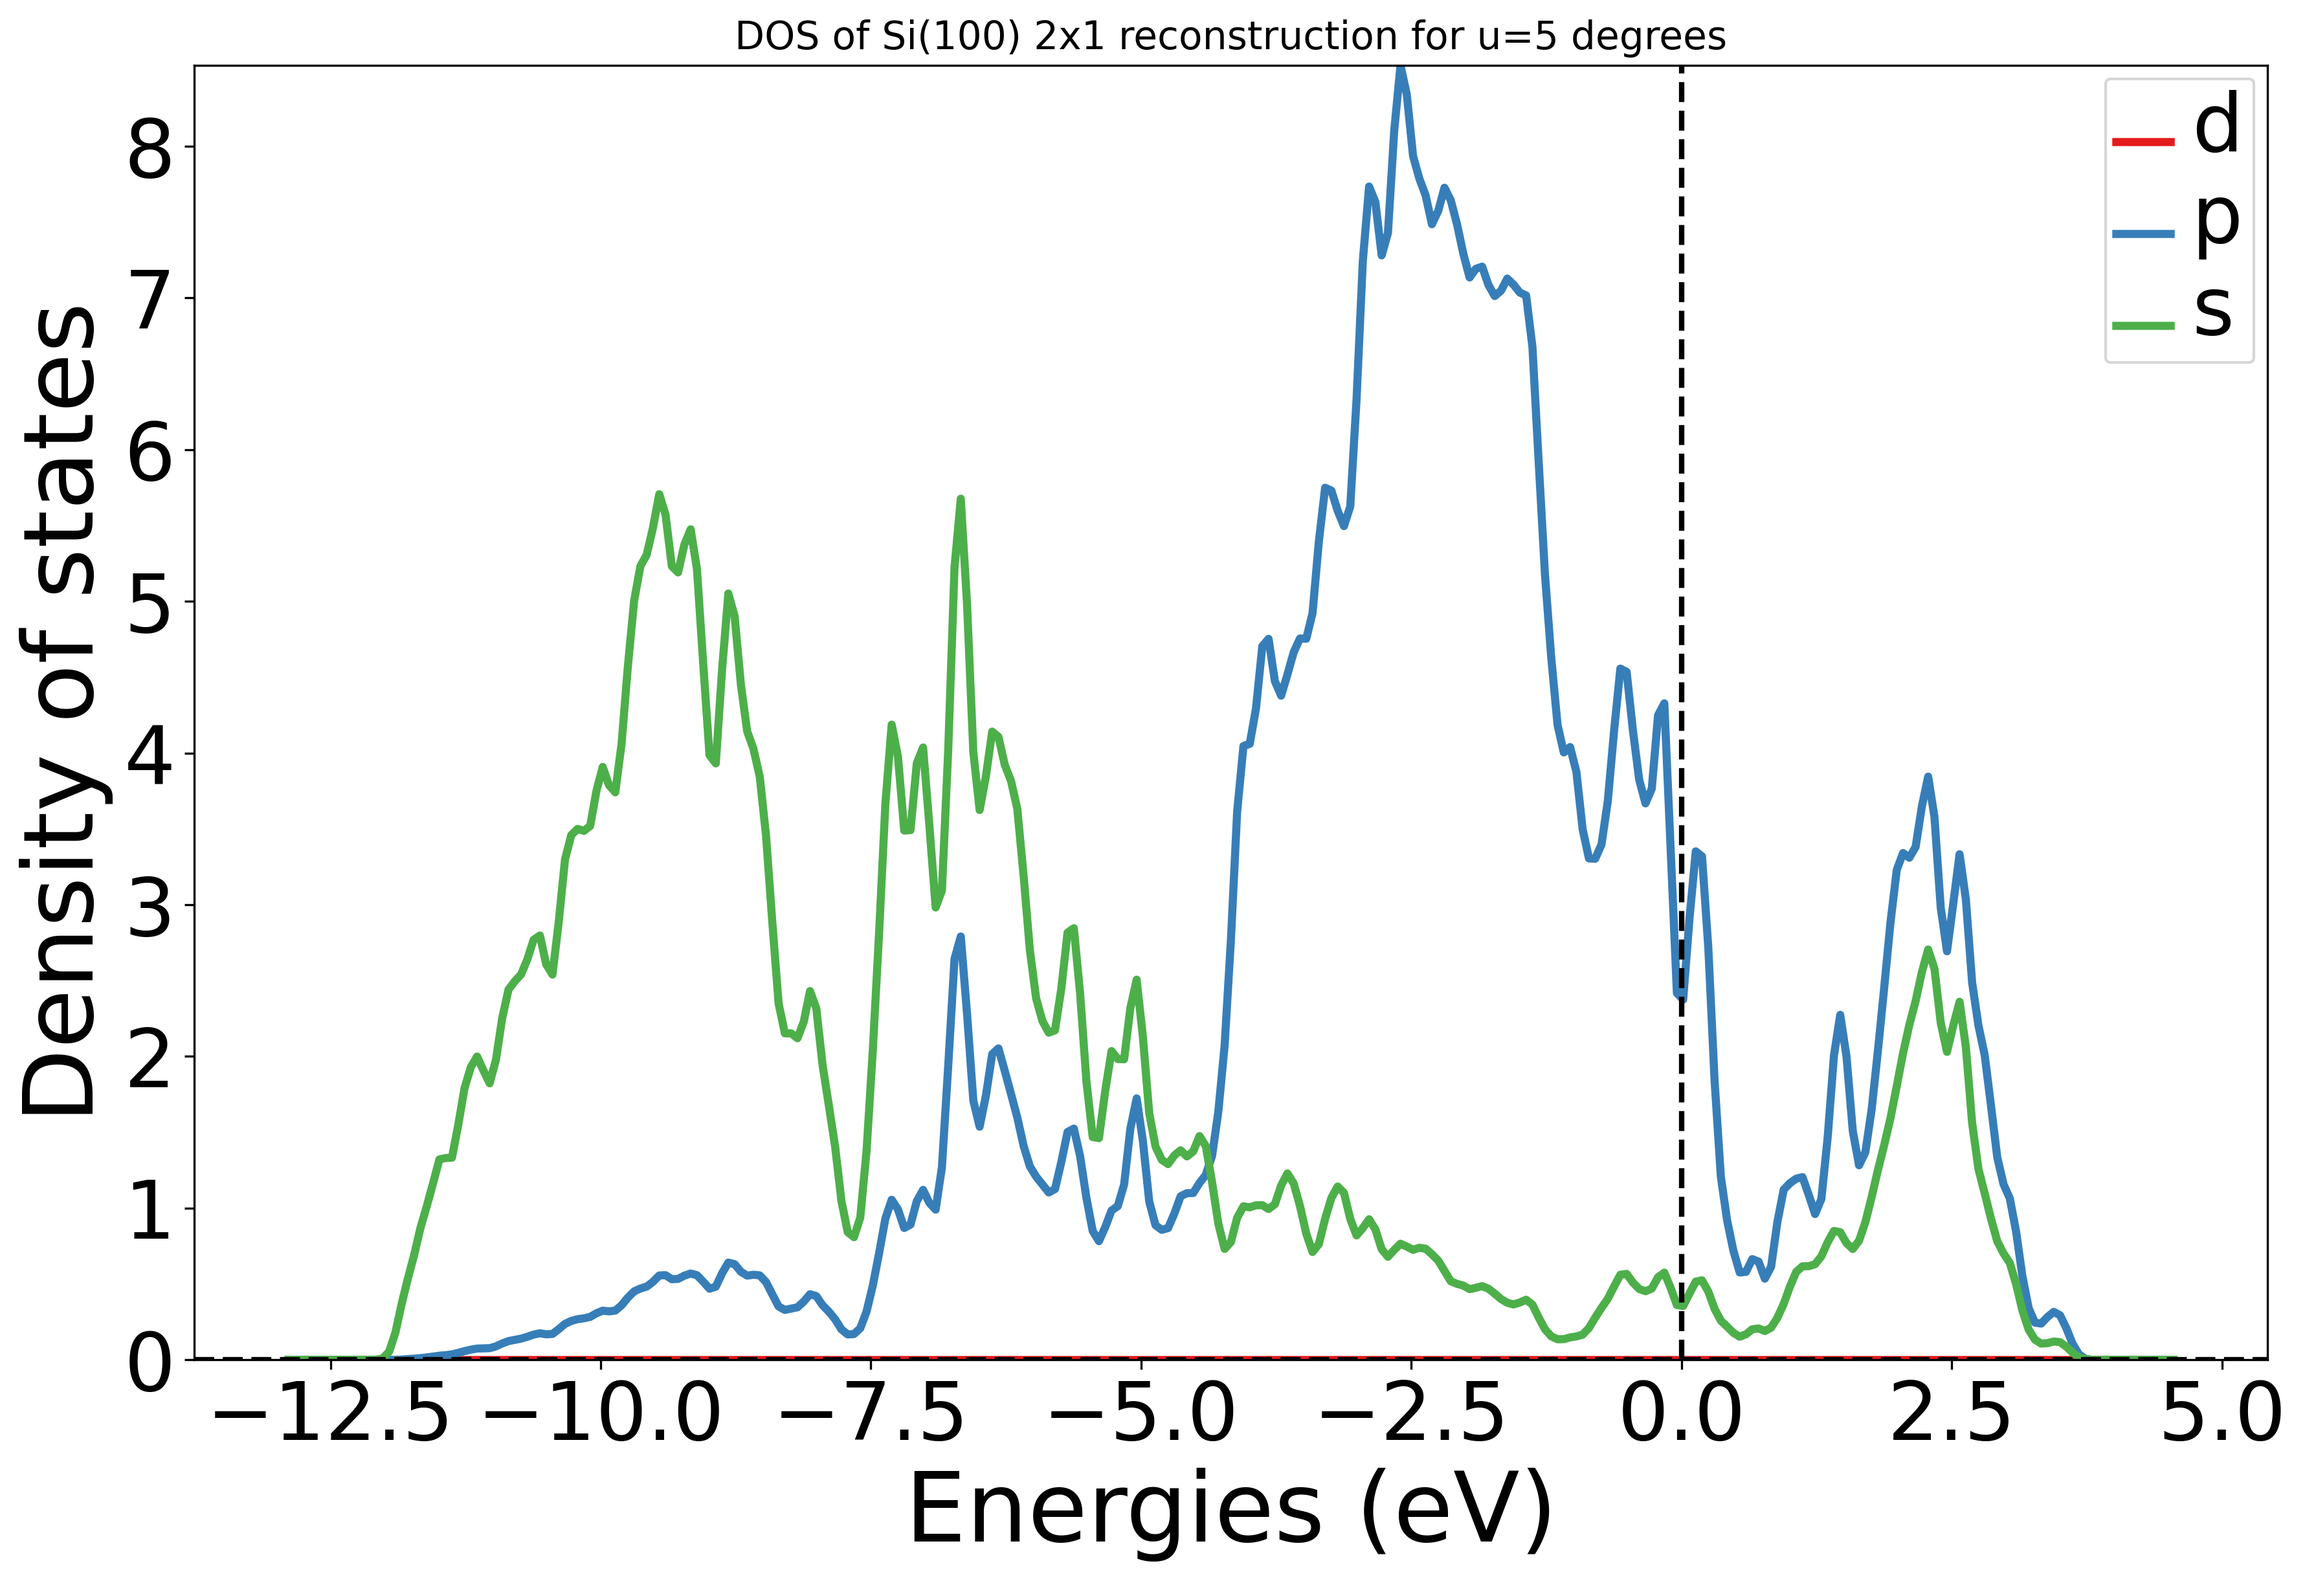
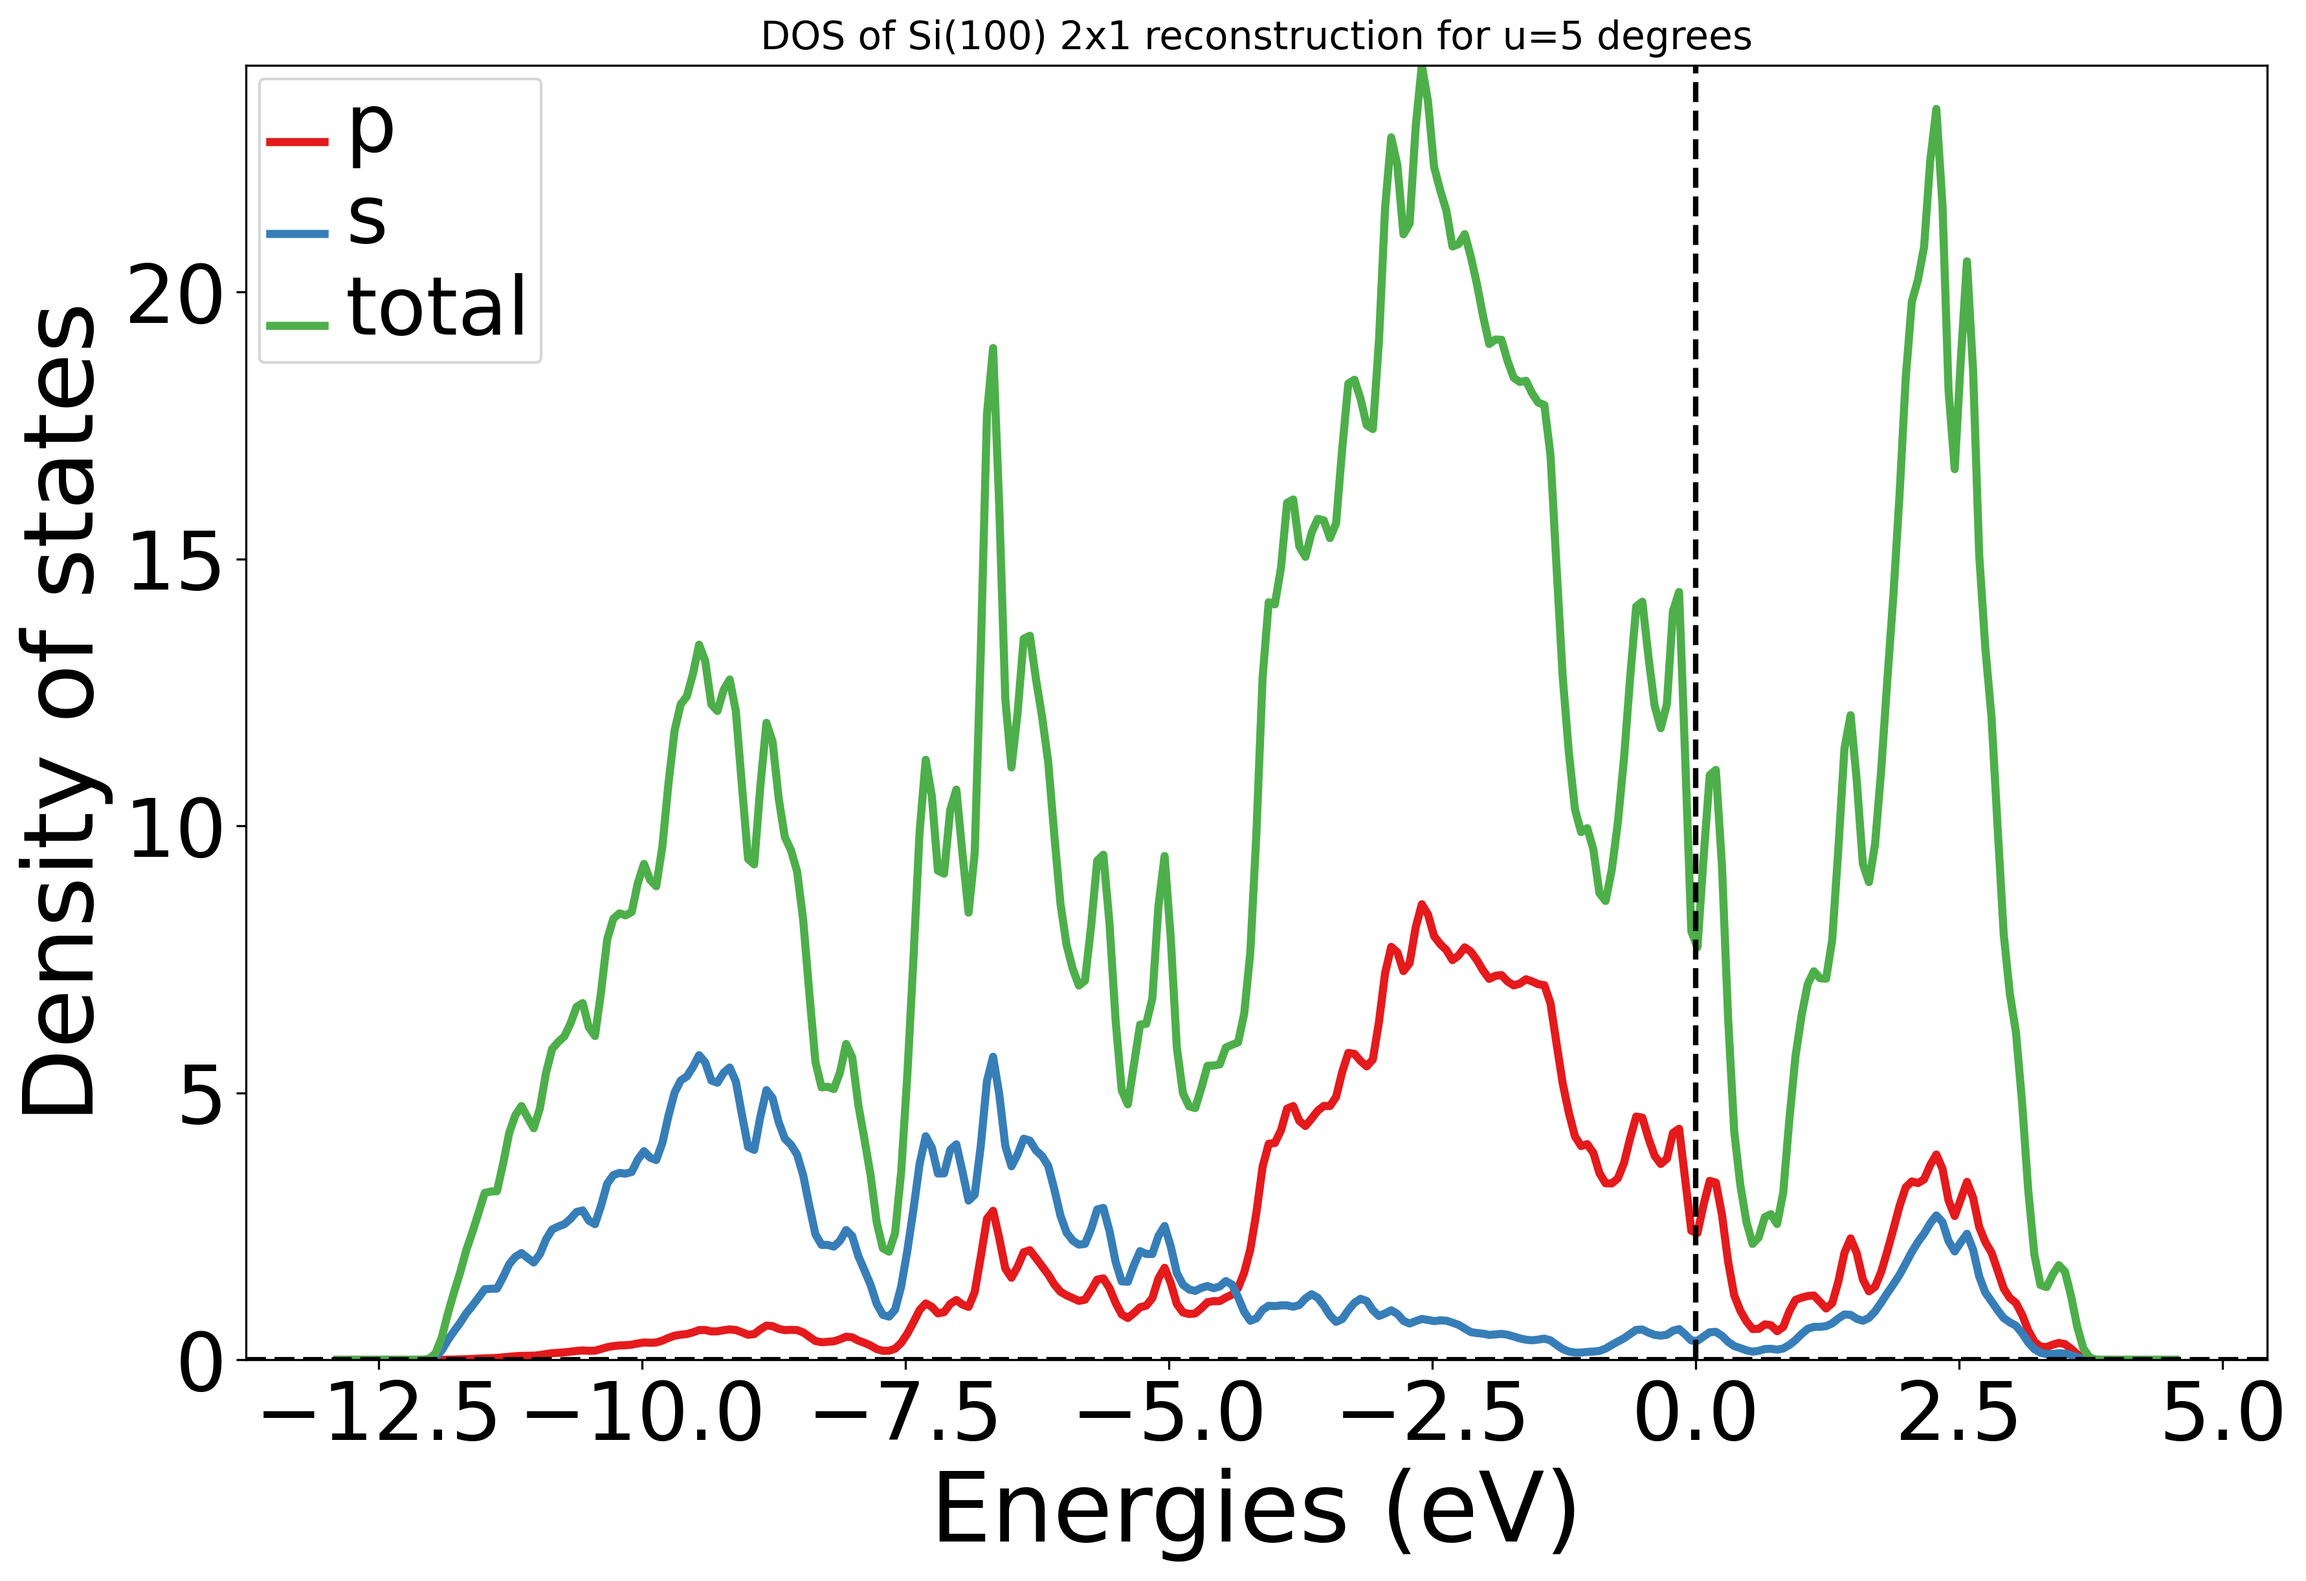
Everything else.

diff --git a/slab_generation.py b/slab_generation.py
@@ -1,5 +1,6 @@
 from pymatgen.core.surface import SlabGenerator, ReconstructionGenerator
 from pymatgen.ext.matproj import MPRester
+from triboflow.phys.shaper import Shaper
 
 
 def generate_slabs(mpid,
@@ -20,7 +21,7 @@ def generate_slabs(mpid,
                        min_slab_size=slab_thickness,  # minimum slab thickness
                        min_vacuum_size=vacuum_thickness,  # minimum vacuum region thickness
                        center_slab=True,  # whether to center the slabs in the c-direction
-                       in_unit_planes=True,  # number of layers or Angstroms for thicknesses
+                       in_unit_planes=False,  # number of layers or Angstroms for thicknesses
                        primitive=prim,  # whether to apply cell reduction on generated slabs
                        max_normal_search=max([abs(m) for m in miller_index]))
 
@@ -60,19 +61,28 @@ def generate_slabs(mpid,
             formula = slab.composition.reduced_formula
             slab.to('poscar', f'{formula}_{millerstr}_conv_{conv}_prim_{prim}_term_{index}.vasp')
 
-    return conv_bulk, unrecon_slabs
+    return conv_bulk, slabs, unrecon_slabs
 
 
 au_mpid = 'mp-149'
 lamno3_mpid = 'mp-19025'
 
-bulk_conv, slabs = generate_slabs(mpid=au_mpid,
-                                  miller_index=(1, 0, 0),
-                                  slab_thickness=20,
-                                  vacuum_thickness=15,
-                                  conv=True,
-                                  prim=True,
-                                  symmetrize=False,
-                                  to_file=True,
-                                  filter_slabs=False,
-                                  recon="diamond_100_2x1")
+bulk_conv, slabs, unrecon_slabs = generate_slabs(mpid=au_mpid,
+                                                 miller_index=(1, 0, 0),
+                                                 slab_thickness=20,
+                                                 vacuum_thickness=15,
+                                                 conv=True,
+                                                 prim=True,
+                                                 symmetrize=False,
+                                                 to_file=True,
+                                                 filter_slabs=False,
+                                                 recon="diamond_100_2x1")
+
+print(f"Unrecon slabs have {len(Shaper.get_layers(unrecon_slabs[0]))} layers")
+print(f"1x1 slabs have {len(Shaper.get_layers(slabs[0]))} layers")
+
+sd_array = []
+for i in range(len(slabs[0].sites)):
+    sd_array.append([False, False, True])
+slabs[0].add_site_property('selective_dynamics', sd_array)
+slabs[0].to('poscar', 'Si100_1x1.vasp')

diff --git a/angle_vs_en_and_dos.py b/angle_vs_en_and_dos.py
@@ -20,22 +20,23 @@ area = Shaper.get_surface_area(struct)
 num_sites = struct.num_sites
 
 bulk_en_ref = -5.41378666
-
+evtoj = 16.02176
 energies = []
 for angle in np.arange(0, 50, 5):
     vr = Vasprun(f"{angle}.xml")
 
     slab = Structure.from_file(f"Si_recon_{angle}.vasp")
     slab_en = vr.final_energy
-    surfen = (slab_en - num_sites * bulk_en_ref) / area
+    surfen = 0.5 * evtoj * (slab_en - num_sites * bulk_en_ref) / area
     energies.append((angle, surfen))
 
     tdos = vr.complete_dos
     plotter = DosPlotter()
-
+    plotter.add_dos(label='total', dos=tdos)
     dos_dict = tdos.get_spd_dos()
     for orbital, dos in dos_dict.items():
-        plotter.add_dos(label=f"{orbital}", dos=dos)
+        if not orbital.name == 'd':
+            plotter.add_dos(label=f"{orbital}", dos=dos)
 
     plt = plotter.get_plot()
     plt.title(f"DOS of Si(100) 2x1 reconstruction for u={angle} degrees")
@@ -44,7 +45,7 @@ for angle in np.arange(0, 50, 5):
     plt.setp(ltext, fontsize=30)
     plt.savefig(f"DOS_{angle}.png", dpi=300, bbox_inches='tight')
 
-#
+
 # energies = np.asarray(energies)
 # xarr, yarr = map(np.array, zip(*energies))
 # xarr_norm = (xarr - xarr.mean()) / xarr.std()
@@ -61,7 +62,7 @@ for angle in np.arange(0, 50, 5):
 # ax.set_xlabel("asdsa")
 # plt.grid(True)
 # plt.xlabel("u (degrees)")
-# plt.ylabel("$\\gamma$ (eV/$\\AA^2$)")
+# plt.ylabel("$\\gamma$ ($J/m^2$)")
 # plt.text(0.4, 0.9, f'Optimized u: {r_crit[-1]} degrees',
 #          transform=plt.gca().transAxes)
 # plt.legend(loc="best", shadow=True)

diff --git a/latconst_vs_E_fit.py b/latconst_vs_E_fit.py
@@ -82,6 +82,6 @@ latconst = np.round(ouc.lattice.a*(fit.eos_params[-1]/orig_volume)**(1/3), 4)
 
 plt.text(0.1, 0.9, f'Optimized lattice constant: {latconst}A',
          transform=plt.gca().transAxes)
-plt.text(0.1, 0.8, f'Optimized energy per atom: {fit.eos_params[0]/ouc.num_sites}eV',
+plt.text(0.1, 0.8, f'Optimized energy per atom: {np.round(fit.eos_params[0]/ouc.num_sites, 4)}eV',
          transform=plt.gca().transAxes)
 plt.savefig('latconst_converge.png', dpi=300, bbox_inches='tight')
